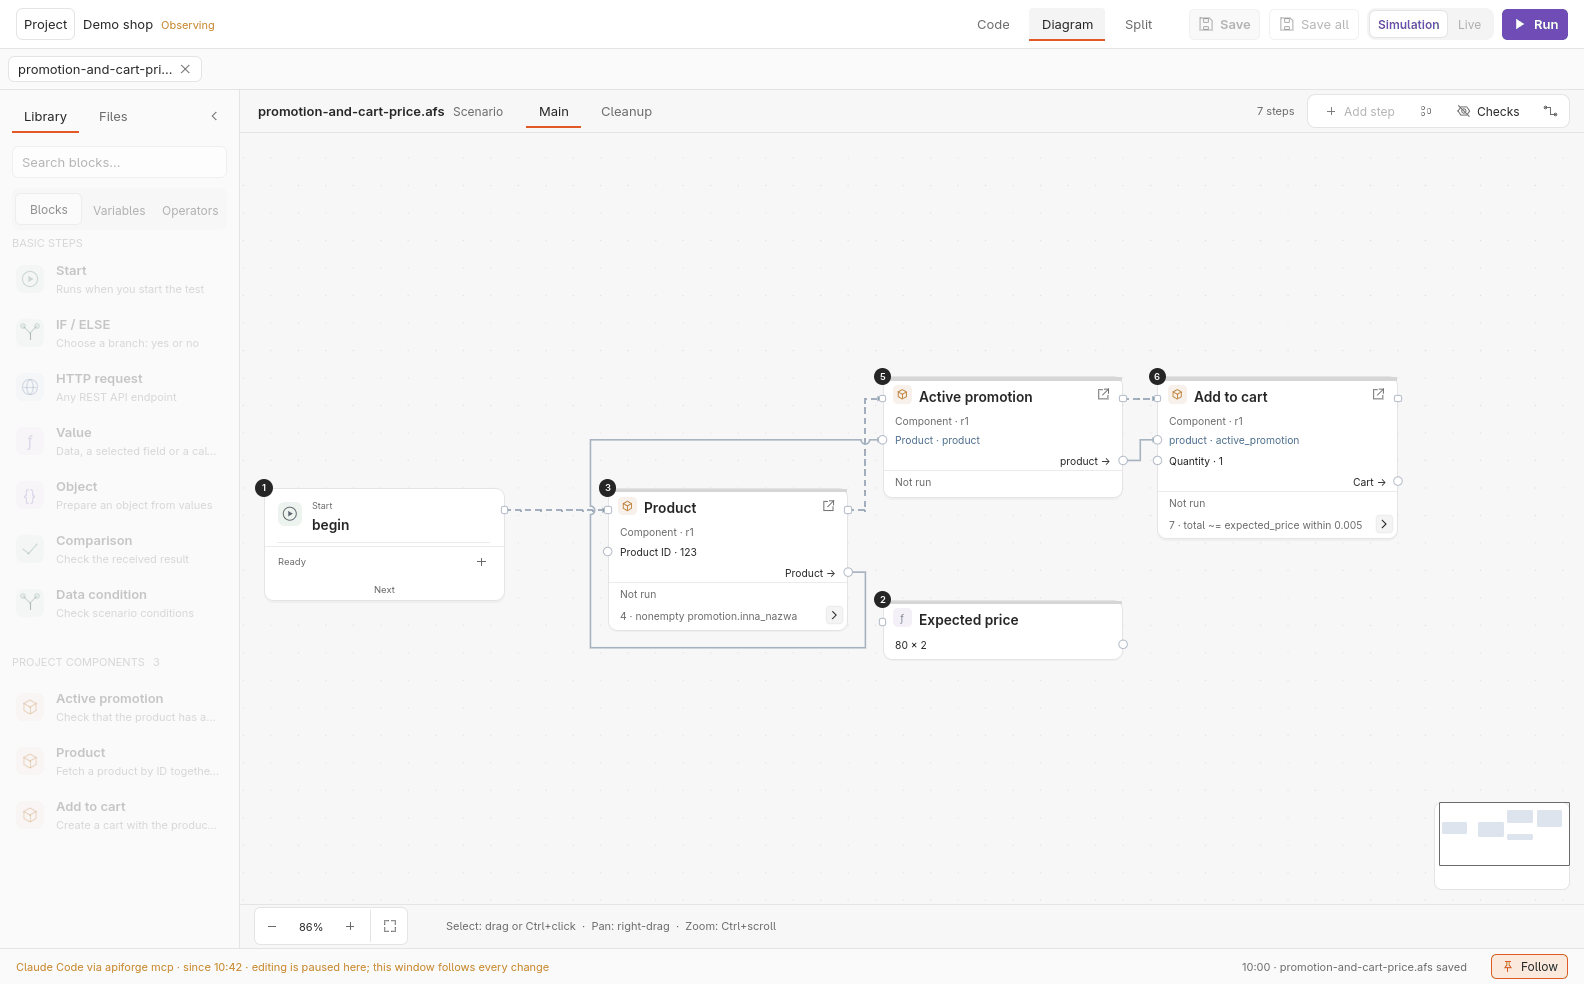
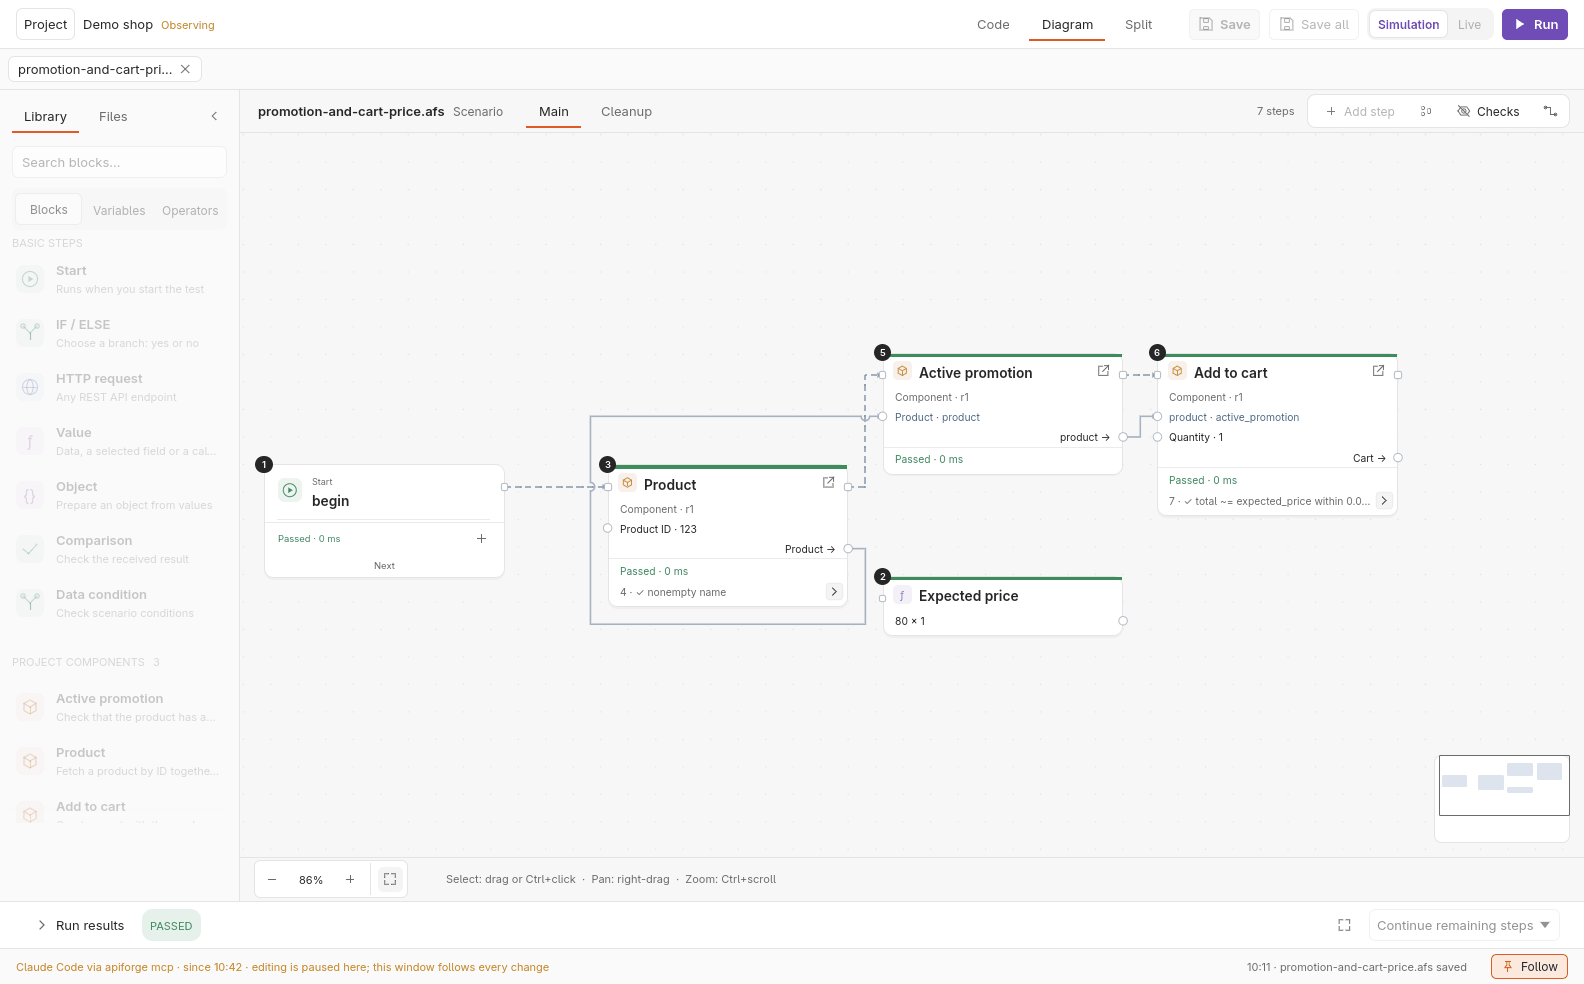
docs: the observer capture after a passed run, with an English check
The capture of the window observing an agent showed a check on a field
with a Polish name from the test project. It is rendered again from a
temporary variant of the review view whose scenario checks the product's
name, after a simulated run that passed, so the cards carry their results.

diff --git a/README.md b/README.md
@@ -295,7 +295,7 @@ Secrets come from `APIFORGE_SECRET_<NAME>` in the server's environment or a
 Windows and WSL. The setup with `.mcp.json` and the full contract are in the
 [development guide](docs/development.md#mcp-server).
 
-![The window while an agent holds the project: Observing in the header, editing paused, the agent named in the bottom bar](docs/images/agent-observer.png)
+![The window while an agent holds the project, after a simulated run: Observing in the header, editing paused, the agent named in the bottom bar](docs/images/agent-observer.png)
 
 ## Install
 
